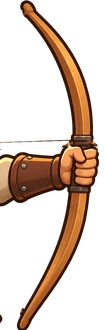
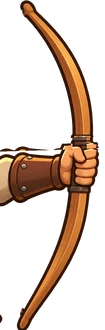
Longbowman rig: single string, rebuilt chin and shoulder under the hand and arrow
Claude-Session: https://claude.ai/code/session_01FVYo8HxtAE7eYgB7GAivjD

Changed region(s): [[0.0, 0.3939, 0.7143, 0.4848], [0.8, 0.3939, 0.9429, 0.4545]]

diff --git a/play.html b/play.html
@@ -2486,7 +2486,7 @@ function uPose(kind,t,a,o){const p=1-a,P={lean:Math.sin(t*1.3)*1.6+Math.sin(t*.5
 const RIG={archer:{H:92,feet:[484,1254],figH:1252,parts:{body:[67,1,1126,1253],upper:[67,436,268,235],fore:[191,433,310,186],bow:[772,1,349,1100]},
   P:{top:[856,40],bot:[845,1045],nock:[488,498],tip:[1185,471],S:[300,560],E:[120,535],B:[790,580]}}};
 const RIMG={};
-function rigImg(type,n){const k=type+'_'+n;if(!RIMG[k]){const im=new Image();im.src='img/units/rig/'+k+'.webp?v='+BUILD+'b';RIMG[k]=im;}return RIMG[k];}
+function rigImg(type,n){const k=type+'_'+n;if(!RIMG[k]){const im=new Image();im.src='img/units/rig/'+k+'.webp?v='+BUILD+'c';RIMG[k]=im;}return RIMG[k];}
 function rigReady(type){const R=RIG[type];if(!R)return false;let ok=true;for(const n in R.parts){const im=rigImg(type,n);if(!(im.complete&&im.naturalWidth))ok=false;}return ok;}
 const RTINT={};
 function rigPart(type,n,lv){if(lv<2)return rigImg(type,n);const k=type+n+lv;if(RTINT[k])return RTINT[k];const im=rigImg(type,n),c=document.createElement('canvas');c.width=im.naturalWidth;c.height=im.naturalHeight;const g=c.getContext('2d');g.drawImage(im,0,0);
@@ -2525,7 +2525,7 @@ function rigDraw(type,x,y,t,o){const R=RIG[type],P=R.P,a=o.a||0,p=1-a,lv=o.lv|0,
   ctx.save();ctx.translate(P.B[0],P.B[1]);ctx.rotate(bowA);ctx.translate(-P.B[0],-P.B[1]);D('bow');ctx.restore();
   /* string: bent to the hand while held, straight and humming when loose */
   const rest=lerp2(bt,bb,.455),sp=held?lerp2(rest,hand,pull):rest,wob=vib>0?Math.sin(t*90)*vib*16:0;ctx.lineCap='round';
-  for(const [w,c] of[[13,'#2a1406'],[5,'#f0dcb0']]){ctx.strokeStyle=c;ctx.lineWidth=w;ctx.beginPath();ctx.moveTo(bt[0],bt[1]);ctx.quadraticCurveTo(held?sp[0]:sp[0]+wob,held?sp[1]:sp[1],bb[0],bb[1]);if(held){ctx.moveTo(bt[0],bt[1]);ctx.lineTo(sp[0],sp[1]);ctx.lineTo(bb[0],bb[1]);}ctx.stroke();}
+  for(const [w,c] of[[13,'#2a1406'],[5,'#f0dcb0']]){ctx.strokeStyle=c;ctx.lineWidth=w;ctx.beginPath();ctx.moveTo(bt[0],bt[1]);if(held&&pull>=1){ctx.lineTo(sp[0],sp[1]);ctx.lineTo(bb[0],bb[1]);}else{const cx=held?sp[0]*2-(bt[0]+bb[0])/2:sp[0]+wob,cy=held?sp[1]*2-(bt[1]+bb[1])/2:sp[1];ctx.quadraticCurveTo(cx,cy,bb[0],bb[1]);}ctx.stroke();}
   /* drawing arm: shoulder and elbow turn so the hand reaches its target */
   const K=ik2(P.S,P.E,P.nock,hand);ctx.save();ctx.translate(P.S[0],P.S[1]);ctx.rotate(K.d1);ctx.translate(-P.S[0],-P.S[1]);D('upper');ctx.translate(P.E[0],P.E[1]);ctx.rotate(K.d2);ctx.translate(-P.E[0],-P.E[1]);D('fore');ctx.restore();
   ctx.filter='none';ctx.restore();}
@@ -2691,7 +2691,7 @@ const PERF={n:0,sum:0,cool:0};
 function perfTick(r){if(r<=0||r>0.5||GFX!=='auto')return;PERF.n++;PERF.sum+=r;PERF.cool-=r;if(PERF.sum<1.5||PERF.n<8)return;const avg=PERF.sum/PERF.n;PERF.n=0;PERF.sum=0;if(PERF.cool>0)return;
   if(avg>1/42&&QUAL>.5){QUAL=Math.max(.5,QUAL*.82);PERF.cool=1.4;resize();}else if(avg<1/57&&QUAL<1){QUAL=Math.min(1,QUAL*1.12);PERF.cool=4;resize();}}
 /* self-update: installed home-screen apps are often resumed, not restarted, so check for new versions ourselves */
-const BUILD='20261123-165617';
+const BUILD='20261123-170016';
 const UPD={ready:false,going:false,want:''};try{if(location.search.includes('v=')&&history.replaceState)history.replaceState(null,'','/play'+(location.search.includes('source=app')?'?source=app':''));}catch(e){}
 function checkUpdate(){if(BUILD==='dev')return;try{fetch('/version.json?t='+Date.now(),{cache:'no-store'}).then(r=>r.ok?r.json():null).then(v=>{if(v&&v.build&&v.build!==BUILD){let tried='';try{tried=sessionStorage.getItem('cq_upd')||'';}catch(e){}if(tried===v.build)return;UPD.want=v.build;UPD.ready=true;}}).catch(()=>{});}catch(e){}}
 function applyUpdate(){if(UPD.going)return;UPD.going=true;
